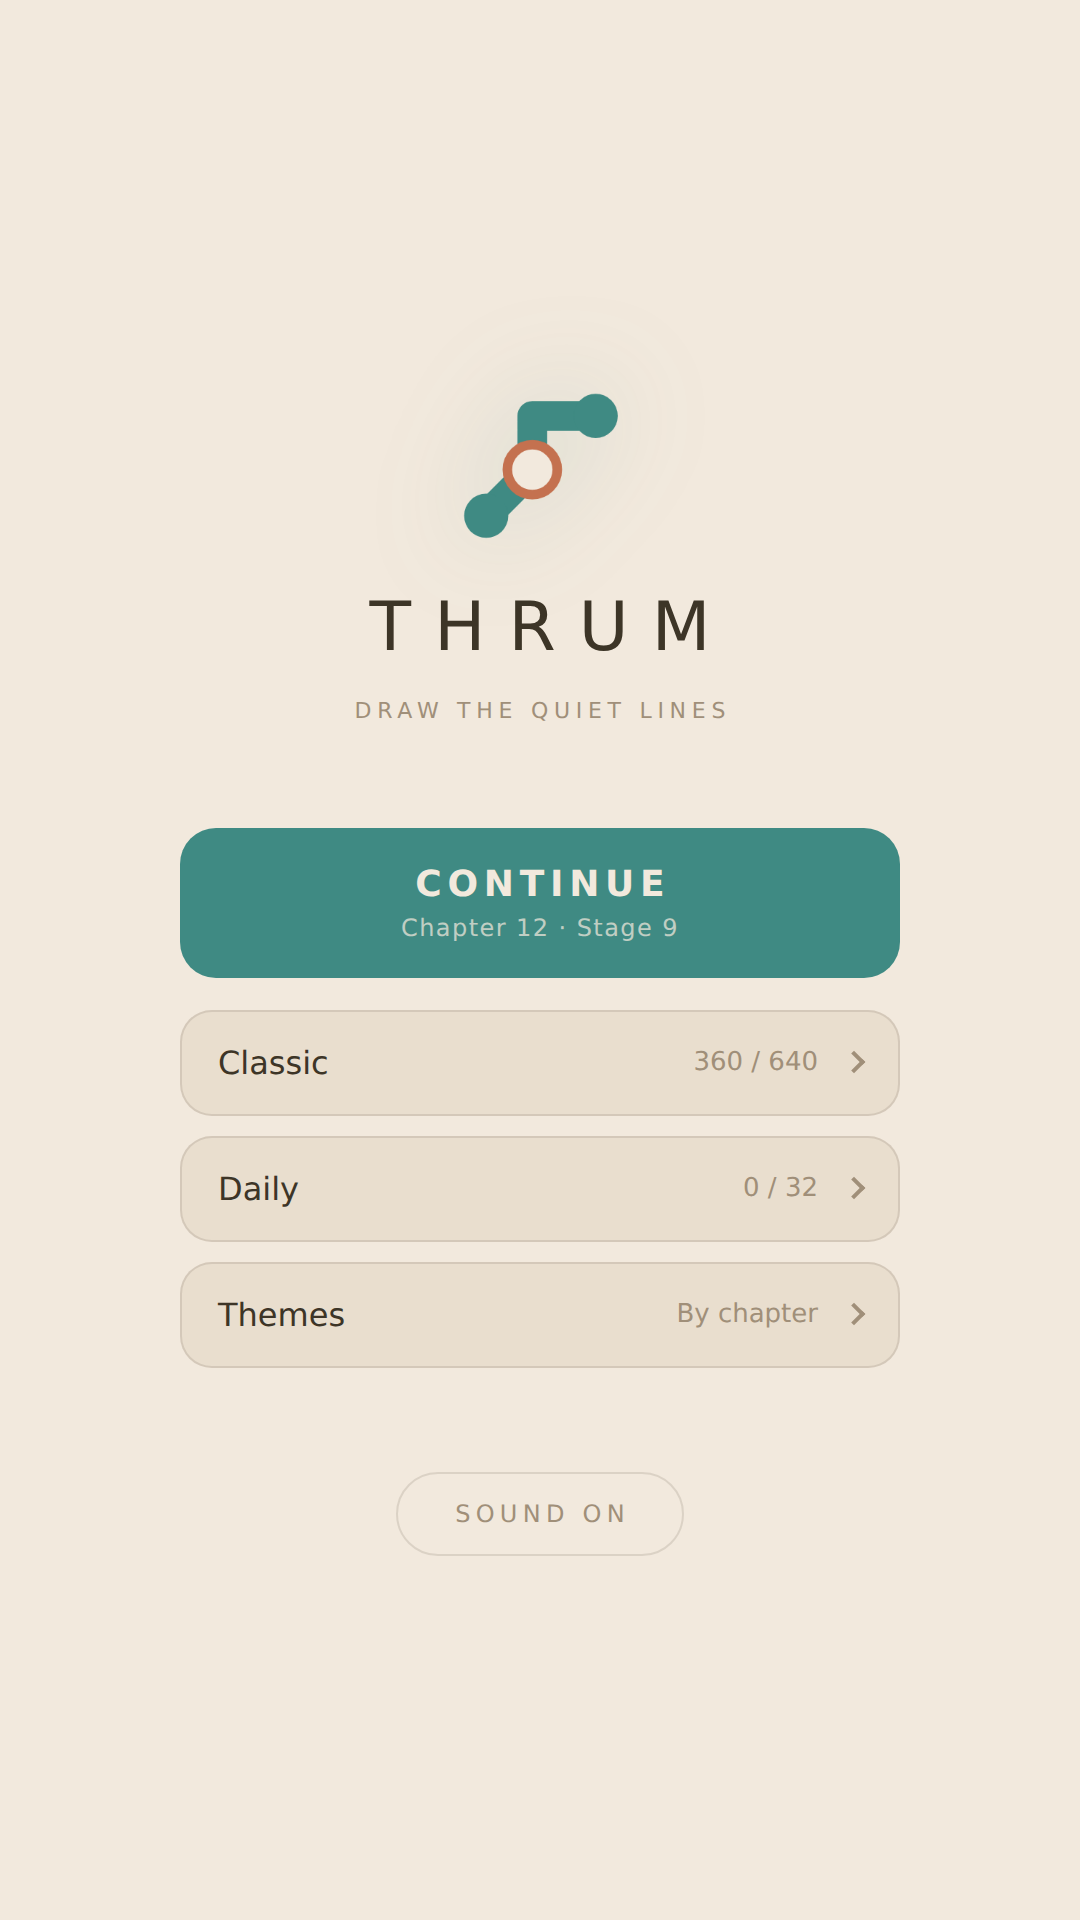
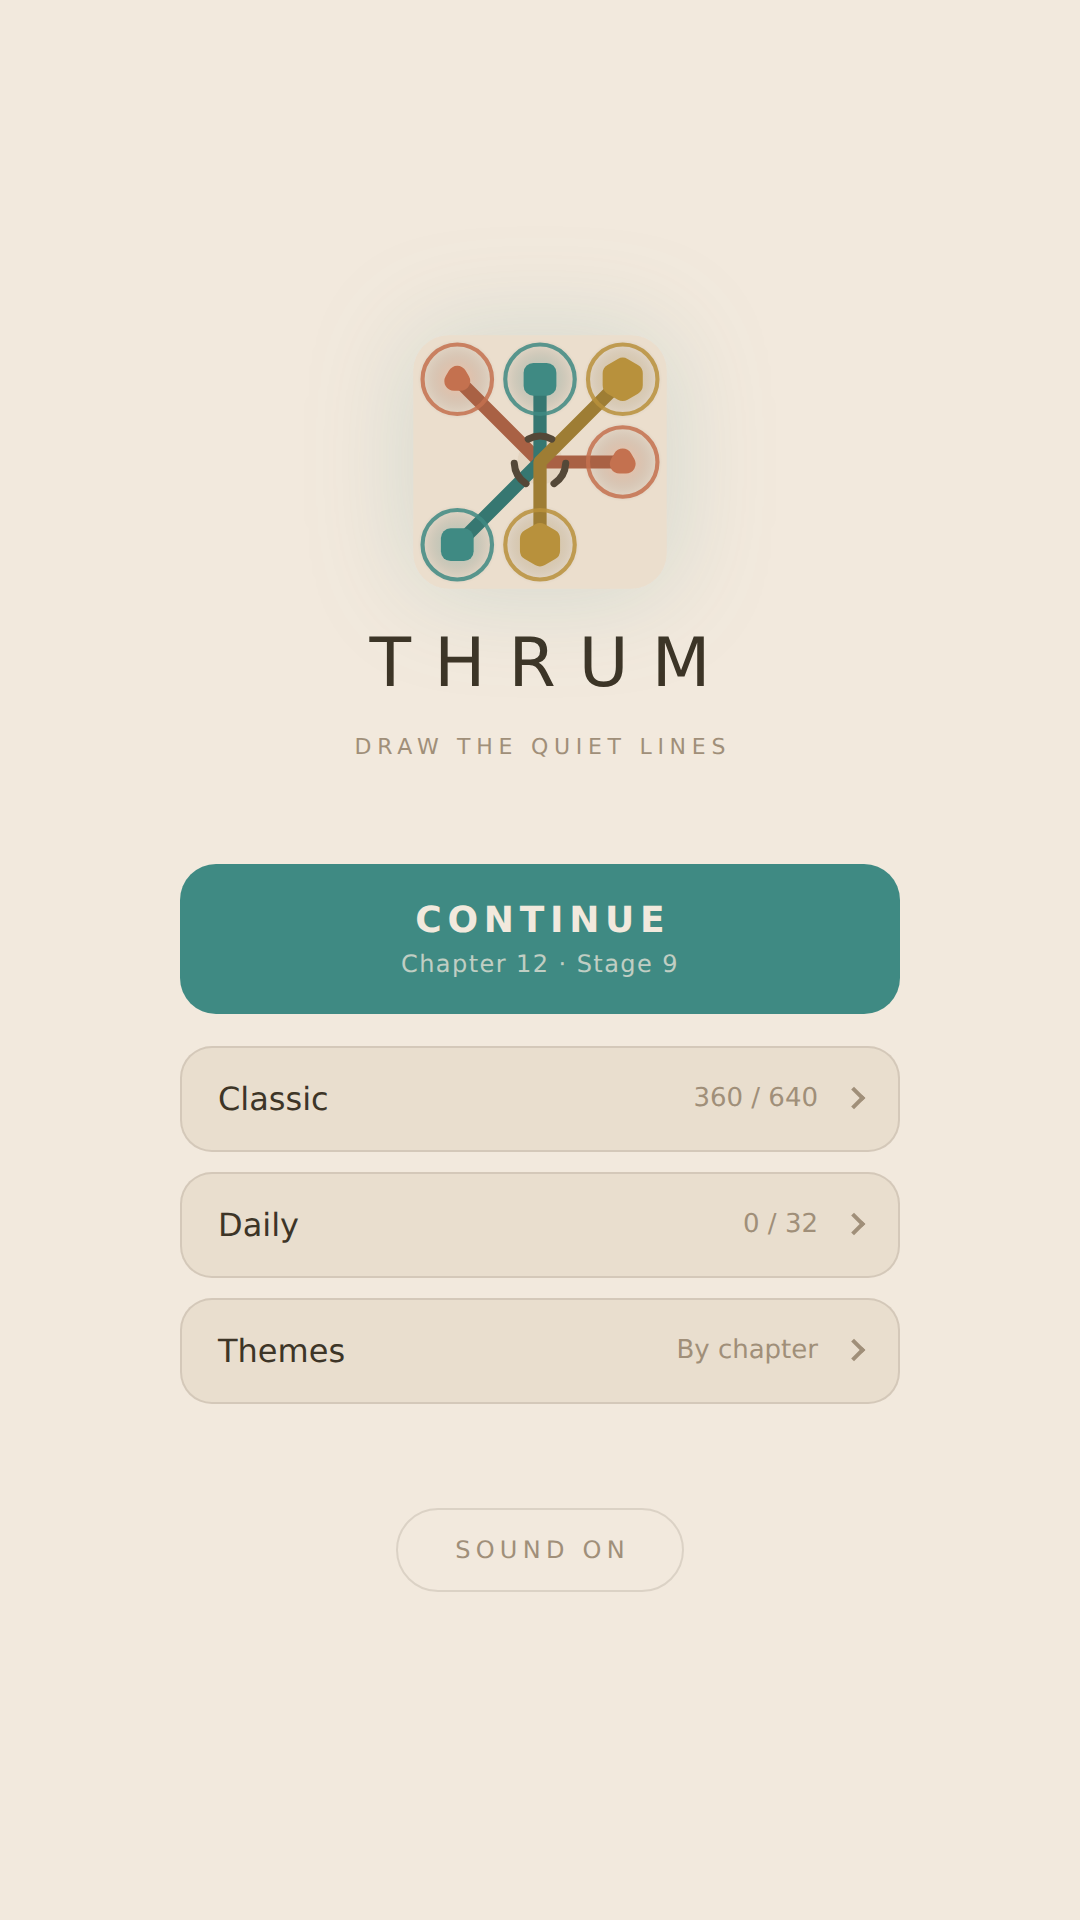
Make the mark a real board rather than a drawing of one
The last two marks were abstractions — first two lines crossing, then a single
turning path — and both said less about the game than one genuine board does.
Neither showed three colours, and neither showed a hub doing the thing hubs are
for.

The mark is now a 3x3 level: three colours, six terminals around the edge, and
a hub in the middle crossed three times. Every route is forced, since no two
terminals of a colour touch and the only cell they share is the hub, so it has
exactly one solution. Five such boards were built and checked against the
solver; the asymmetric one was kept, because the symmetric ones read as an
asterisk and lose the sense of a puzzle that was actually played.

It is drawn by the game's own code — traceShape, the terminal halo and ring,
traceHubTick, the board plate, the palette, all at the renderer's proportions —
and the lines come from solve() at paint time rather than a hand-written path
list, so a mark that disagreed with the rules could not be drawn at all. Three
tests hold the board to having three families, a hub, and one solution;
an ambiguous board would let the icon change with search order.

Moved to src/render/mark.ts so the test can reach it without booting the app.

Pinned to Harbour rather than the opening theme. On cream the hub's arcs and the
terminal halos all but vanish, and the hub is the point of the mark; the plate
is what gives the hub's face something to sit against. The menu mark still
[…]

Changed region(s): [[0.1528, 0.1562, 0.8556, 0.7188], [0.6111, 0.6562, 0.7639, 0.7188], [0.4278, 0.7812, 0.5806, 0.8125]]

diff --git a/src/render/mark.ts b/src/render/mark.ts
@@ -1,0 +1,142 @@
+import { type CellIndex, xOf, yOf } from "../core/types";
+import { parseLevel } from "../core/level";
+import { solve } from "../core/solver";
+import { type paletteFor, traceHubTick, traceShape } from "./palette";
+
+/**
+ * The board the mark shows: a real 3x3 level, not a drawing of one.
+ *
+ * Three colours, six terminals around the edge, and a hub in the middle
+ * crossed three times — the smallest board that can hold everything the game
+ * does at once. Every route is forced, since no two terminals of a colour touch
+ * and the only cell they share is the hub, so it has exactly one solution and
+ * `test/rules.test.ts` checks that it still does.
+ */
+export const MARK_BOARD = ["ABC", ".3A", "BC."];
+/**
+ * Harbour rather than the opening theme: on the cream ground the hub's arcs and
+ * the terminal halos are nearly invisible, and the hub is the whole point of
+ * the mark. A dark tile also holds its own on a home screen. The menu mark
+ * still follows whatever theme is in force — only the icon is pinned.
+ */
+export const MARK_THEME = 1;
+
+/**
+ * The menu mark and the app icon, painted by one routine so the two can never
+ * drift apart.
+ *
+ * It is the board above, solved — drawn with the same shapes, halos, rings and
+ * hub arcs the game itself uses, from the same palette, at the same
+ * proportions. Nothing here is a stylisation of the game; it is a small
+ * instance of it. Earlier marks were abstractions — crossing lines, then a
+ * single turning path — and both ended up saying less about the game than one
+ * genuine board does.
+ *
+ * The solver supplies the lines rather than a hand-written path list, so a mark
+ * that disagreed with the rules could not be drawn at all.
+ */
+export function paintMark(
+  ctx: CanvasRenderingContext2D,
+  size: number,
+  palette: ReturnType<typeof paletteFor>,
+  scale = 1,
+): void {
+  const level = parseLevel("mark", MARK_BOARD);
+  const solution = solve(level, { limit: 1 }).solutions[0];
+
+  // The plate the game stands its boards on. Without it the hub's face is the
+  // same value as the ground and its three arcs float on nothing, which is the
+  // one thing the mark most needs to show.
+  const plate = size * 0.96 * scale;
+  ctx.fillStyle = palette.panel;
+  ctx.beginPath();
+  ctx.roundRect(
+    (size - plate) / 2,
+    (size - plate) / 2,
+    plate,
+    plate,
+    plate * 0.14,
+  );
+  ctx.fill();
+
+  // Three cells across the icon's side, inset so the outer halos have room.
+  const cell = (size / 3) * 0.94 * scale;
+  const originX = size / 2 - (cell * level.width) / 2;
+  const originY = size / 2 - (cell * level.height) / 2;
+  const at = (index: CellIndex): [number, number] => [
+    originX + (xOf(level, index) + 0.5) * cell,
+    originY + (yOf(level, index) + 0.5) * cell,
+  ];
+
+  // Hub faces first, so the lines that cross them pass over the face and stop
+  // short of nothing — exactly as they do on the board.
+  for (let i = 0; i < level.cells.length; i++) {
+    const target = level.cells[i];
+    if (target.kind !== "hub") continue;
+    const [x, y] = at(i);
+    ctx.fillStyle = palette.hubFill;
+    ctx.beginPath();
+    ctx.arc(x, y, cell * 0.38 * 0.72, 0, Math.PI * 2);
+    ctx.fill();
+  }
+
+  for (let i = 0; i < level.cells.length; i++) {
+    const target = level.cells[i];
+    if (target.kind !== "node" || !target.terminal) continue;
+    const [x, y] = at(i);
+    const outer = cell * 0.48;
+    const halo = ctx.createRadialGradient(x, y, outer * 0.3, x, y, outer);
+    halo.addColorStop(0, palette.terminalHalo[target.shape]);
+    halo.addColorStop(1, "rgba(0, 0, 0, 0)");
+    ctx.fillStyle = halo;
+    ctx.beginPath();
+    ctx.arc(x, y, outer, 0, Math.PI * 2);
+    ctx.fill();
+  }
+
+  ctx.lineCap = "round";
+  ctx.lineJoin = "round";
+  ctx.lineWidth = cell * 0.16;
+  for (const [shape, path] of solution) {
+    ctx.strokeStyle = palette.line[shape];
+    ctx.beginPath();
+    path.forEach((index, step) => {
+      const [x, y] = at(index);
+      if (step === 0) ctx.moveTo(x, y);
+      else ctx.lineTo(x, y);
+    });
+    ctx.stroke();
+  }
+
+  // Every piece here is on its line, so all of them are solid: hollow means
+  // "still to connect", and a solved board has none left.
+  for (let i = 0; i < level.cells.length; i++) {
+    const target = level.cells[i];
+    if (target.kind !== "node") continue;
+    const [x, y] = at(i);
+    ctx.fillStyle = palette.shape[target.shape];
+    traceShape(ctx, target.shape, x, y, cell * 0.28, 0, palette.style.cornerFactor);
+    ctx.fill();
+
+    if (!target.terminal) continue;
+    ctx.strokeStyle = palette.terminalRing[target.shape];
+    ctx.lineWidth = Math.max(1.8, cell * 0.05);
+    ctx.beginPath();
+    ctx.arc(x, y, cell * 0.42, 0, Math.PI * 2);
+    ctx.stroke();
+  }
+
+  // Hub arcs last, on the rim, so crossing lines never obscure the count.
+  for (let i = 0; i < level.cells.length; i++) {
+    const target = level.cells[i];
+    if (target.kind !== "hub") continue;
+    const [x, y] = at(i);
+    ctx.lineCap = "round";
+    ctx.lineWidth = Math.max(2.5, cell * 0.085);
+    ctx.strokeStyle = palette.hubTickFull;
+    for (let d = 0; d < target.capacity; d++) {
+      traceHubTick(ctx, x, y, cell * 0.38 * 0.82, d, target.capacity);
+      ctx.stroke();
+    }
+  }
+}

diff --git a/src/main.ts b/src/main.ts
@@ -32,6 +32,7 @@ import {
   paletteFor,
   themeForChapter,
 } from "./render/palette";
+import { MARK_THEME, paintMark } from "./render/mark";
 import { Renderer, cellAt, centerOf } from "./render/renderer";
 
 const $ = <T extends HTMLElement>(id: string): T =>
@@ -52,9 +53,6 @@ const ads = new AdManager(
     : new StubAds(),
 );
 void ads.initialise();
-
-/** The brand mark only ever uses the first two families. */
-type ShapeIdLike = 0 | 1;
 
 type ScreenName = "menu" | "chapters" | "stages" | "themes" | "game";
 type Mode = "classic" | "daily";
@@ -205,77 +203,9 @@ function prefetchLikely(mode: Mode, chapter: number): void {
 // --- menu ------------------------------------------------------------------
 
 /**
- * The menu mark and the app icon, painted by one routine so the two can never
- * drift apart. One line, drawn the way the game draws one: a terminal at each
- * end in the same colour, turning through a hub on the way.
- *
- * The previous mark was two lines crossing in a symmetric X. At icon size that
- * reads as a close button, not a puzzle — and the four-fold symmetry gave it no
- * silhouette to remember. A path that *turns* is what the game is actually
- * about, and it stays legible down to 48px where a crossing does not.
- *
- * Two deliberate liberties, both for legibility rather than truth: the hub is
- * rimmed in an accent instead of the board's neutral ink, because the mark
- * needs one warm point to be found by; and the rim is a closed ring rather than
- * the board's two arcs, which break into specks below about 64px.
- */
-function paintMark(
-  ctx: CanvasRenderingContext2D,
-  size: number,
-  palette: ReturnType<typeof paletteFor>,
-  scale = 1,
-): void {
-  // Laid out in fractions of the side and scaled about the centre, so the
-  // maskable variant insets into the safe zone without a second layout.
-  const at = (fx: number, fy: number): [number, number] => [
-    size * (0.5 + (fx - 0.5) * scale),
-    size * (0.5 + (fy - 0.5) * scale),
-  ];
-  const track: [number, number][] = [
-    at(0.22, 0.78),
-    at(0.46, 0.54),
-    at(0.46, 0.26),
-    at(0.79, 0.26),
-  ];
-  const [hubX, hubY] = at(0.46, 0.54);
-  const shape: ShapeIdLike = 1;
-
-  ctx.lineCap = "round";
-  ctx.lineJoin = "round";
-  ctx.lineWidth = size * 0.155 * scale;
-  // One flat colour for the whole line, terminals included. On the board a line
-  // is drawn a shade deeper than its pieces, which at icon size reads as two
-  // different things joined rather than one line.
-  ctx.strokeStyle = palette.shape[shape];
-  ctx.beginPath();
-  ctx.moveTo(track[0][0], track[0][1]);
-  for (const [x, y] of track.slice(1)) ctx.lineTo(x, y);
-  ctx.stroke();
-
-  // Both ends carry the same colour, because one line has one colour.
-  ctx.fillStyle = palette.shape[shape];
-  for (const [x, y] of [track[0], track[track.length - 1]]) {
-    ctx.beginPath();
-    ctx.arc(x, y, size * 0.115 * scale, 0, Math.PI * 2);
-    ctx.fill();
-  }
-
-  const hubRadius = size * 0.13 * scale;
-  ctx.fillStyle = palette.background;
-  ctx.beginPath();
-  ctx.arc(hubX, hubY, hubRadius, 0, Math.PI * 2);
-  ctx.fill();
-  ctx.lineWidth = size * 0.05 * scale;
-  ctx.strokeStyle = palette.shape[0];
-  ctx.beginPath();
-  ctx.arc(hubX, hubY, hubRadius, 0, Math.PI * 2);
-  ctx.stroke();
-}
-
-/**
  * The menu mark, drawn in the game's own language rather than set as an icon:
- * two lines crossing at a hub, which is the core mechanic in miniature. The
- * same routine paints the app icon, so the two can never drift apart.
+ * a real board, solved. The same routine paints the app icon, so the two can
+ * never drift apart.
  */
 function drawBrandMark(): void {
   const mark = document.getElementById("brand-mark") as HTMLCanvasElement | null;
@@ -1028,7 +958,7 @@ Object.assign(window, {
     kick();
   },
   __renderIcon: (size: number, safeZone = false) => {
-    const theme = THEMES[0];
+    const theme = THEMES[MARK_THEME];
     const palette = paletteFor(theme);
     document.body.innerHTML = "";
     document.body.style.margin = "0";

diff --git a/test/rules.test.ts b/test/rules.test.ts
@@ -3,6 +3,8 @@ import { parseLevel } from "../src/core/level";
 import { Game } from "../src/core/game";
 import { indexOf } from "../src/core/types";
 import { canExtend, crossingSegment, segKey } from "../src/core/rules";
+import { solve } from "../src/core/solver";
+import { MARK_BOARD } from "../src/render/mark";
 
 /** Drag a line through a list of (x, y) cells, returning the effects. */
 function play(game: Game, cells: [number, number][]): string[] {
@@ -187,6 +189,35 @@ describe("crossing", () => {
     ).toBe(true);
     game.dragTo(indexOf(level, 1, 1));
     expect(game.dragTo(indexOf(level, 2, 2))).toBe("none");
+  });
+});
+
+describe("the brand mark's board", () => {
+  const level = parseLevel("mark", MARK_BOARD);
+
+  it("is a real level, with all three families and a hub", () => {
+    const shapes = new Set(
+      level.cells.flatMap((cell) => (cell.kind === "node" ? [cell.shape] : [])),
+    );
+    expect(shapes.size).toBe(3);
+    expect(level.cells.some((cell) => cell.kind === "hub")).toBe(true);
+  });
+
+  it("has exactly one solution", () => {
+    // The mark is drawn from the solver's answer, so an ambiguous board would
+    // make the icon depend on search order — it would change without anyone
+    // touching the drawing code.
+    const { solutions } = solve(level, { limit: 4 });
+    expect(solutions).toHaveLength(1);
+  });
+
+  it("is solved by a line through the hub for every colour", () => {
+    const [solution] = solve(level, { limit: 1 }).solutions;
+    expect(solution.size).toBe(3);
+    for (const path of solution.values()) {
+      expect(path).toHaveLength(3);
+      expect(level.cells[path[1]].kind).toBe("hub");
+    }
   });
 });
 

diff --git a/src/style.css b/src/style.css
@@ -313,8 +313,10 @@ button:focus-visible {
 }
 
 #brand-mark {
-  width: 96px;
-  height: 96px;
+  /* Larger than a plain glyph would need: the mark is a whole 3x3 board, and
+     below about 130px its shapes and hub arcs stop being readable. */
+  width: 132px;
+  height: 132px;
   /* The mark is the game's own imagery, so let it glow like the board does. */
   filter: drop-shadow(0 0 26px color-mix(in srgb, var(--accent) 18%, transparent));
 }

diff --git a/README.md b/README.md
@@ -85,6 +85,7 @@ src/core/       the game, independent of any rendering
   generator.ts  seeded generation, verified by the solver
   chapters.ts   the difficulty ramp and the level catalogue
 src/render/     canvas drawing, palette, animation state
+  mark.ts       the menu mark and app icon: one real board, solved
 src/audio/      procedural synthesis
 src/progress.ts solved state and unlock rules
 ```
@@ -121,6 +122,23 @@ solver burns* proving the board unique, and candidates below it are rejected.
 `npm run difficulty` reports the distribution per chapter — the floors were
 measured against it, not guessed. Before this existed chapter 1 sat at a median
 of 39 search nodes; it is now around 110, and chapter 12 went from 121 to 749.
+
+## The mark
+
+The menu mark and the app icon are one routine, and what they draw is a real
+3x3 level — three colours, six terminals, a hub in the middle crossed three
+times — solved by the actual solver at paint time. Nothing about it is a
+stylisation: the shapes, halos, terminal rings, hub arcs and palette are the
+game's own, at the game's own proportions.
+
+Drawing it from a solution rather than a hand-written path list means a mark
+that disagreed with the rules could not be drawn, and `test/rules.test.ts`
+holds the board to having exactly one solution — an ambiguous board would let
+the icon change with search order, without anyone touching the drawing code.
+
+The icon is pinned to Harbour rather than the opening theme: on cream the hub's
+arcs and the terminal halos all but vanish, and the hub is the point. The menu
+mark follows whatever theme is in force, so it restyles as the game does.
 
 ## Audio
 
